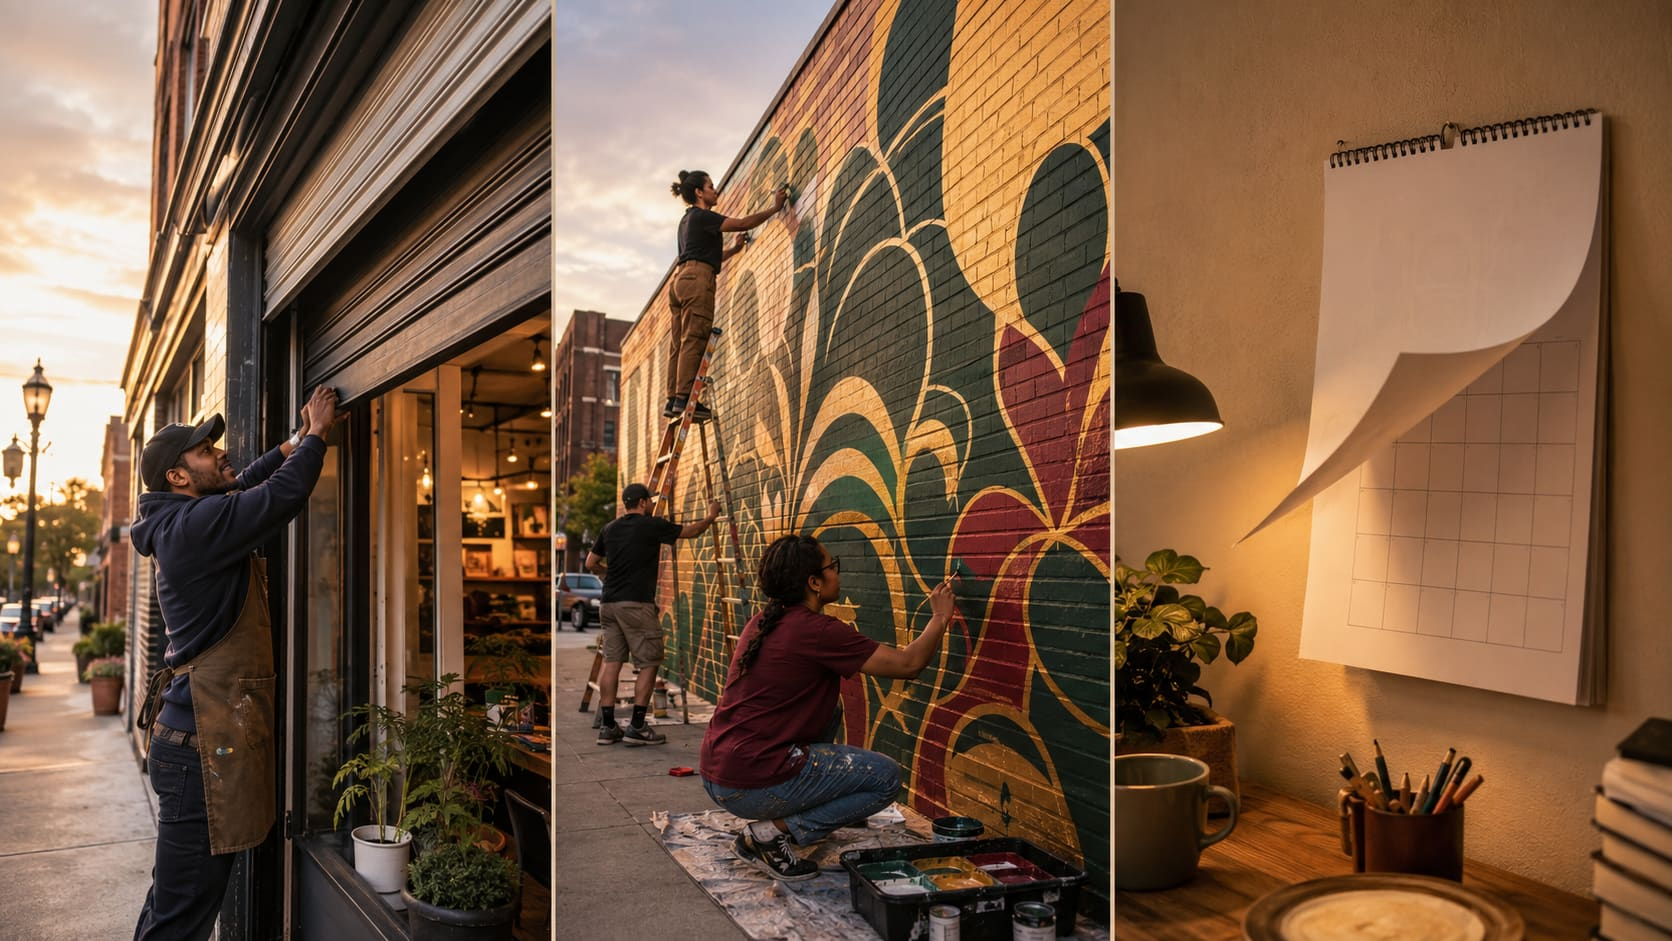
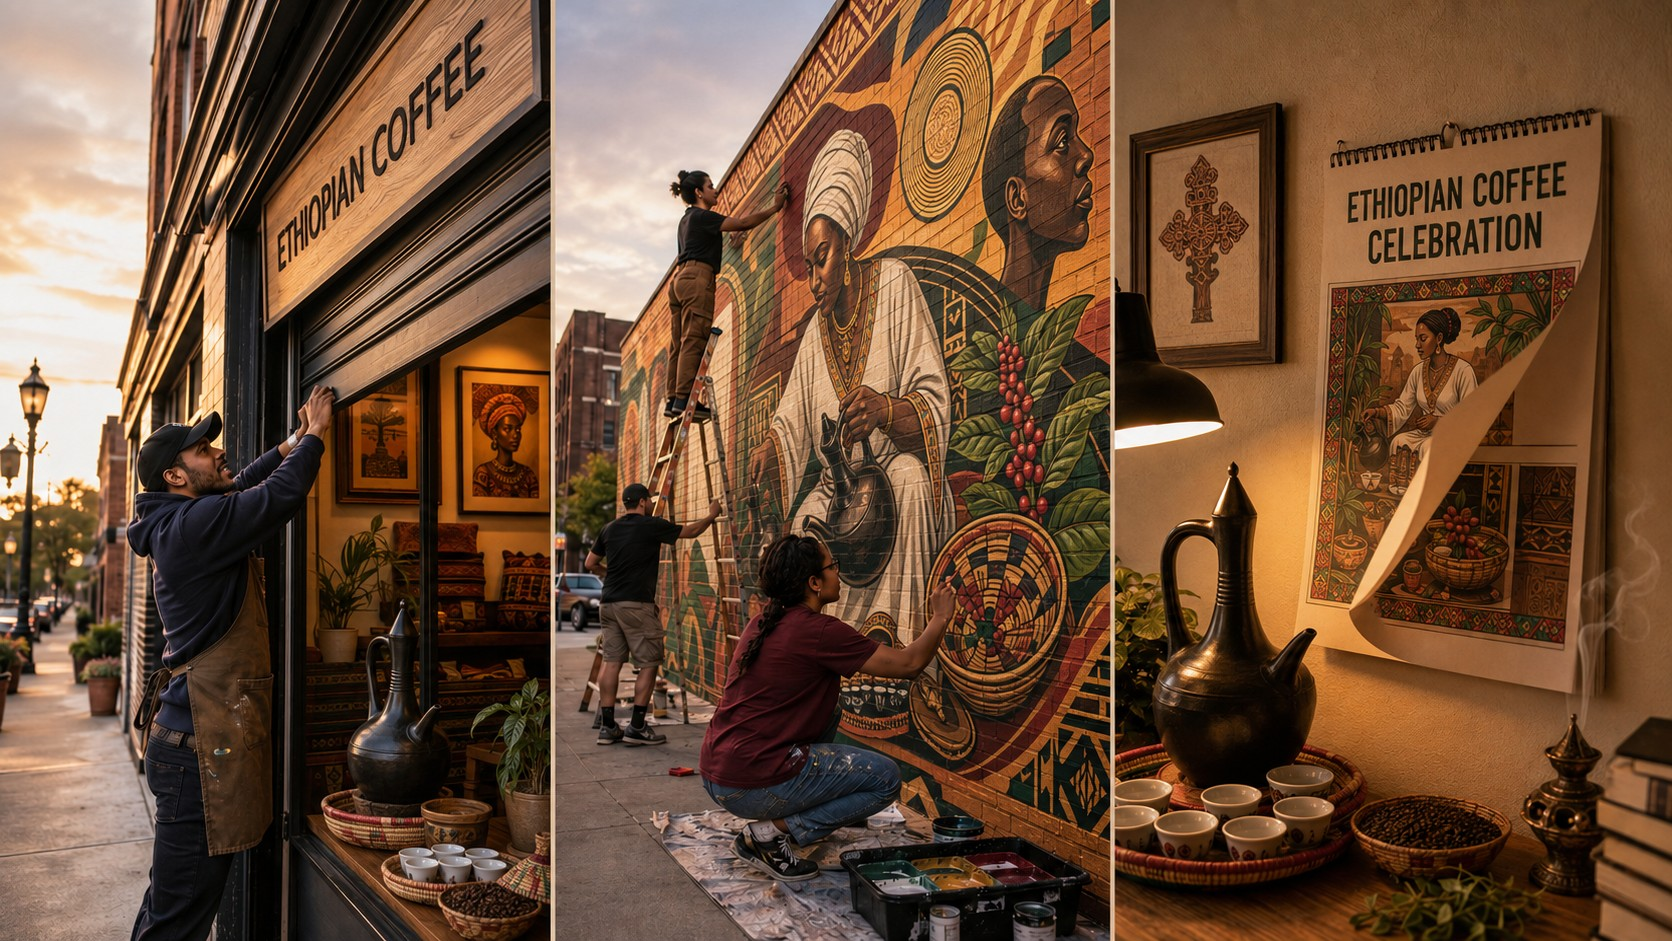
Add Frame 1 image and refresh Frames 9 and 11 artwork
Frame 1 (the 30-year hiatus split) now has its image, closing the one
gap from the last pass. Frames 9 and 11 got updated/regenerated art.

diff --git a/the-legacy/js/frames-data.js b/the-legacy/js/frames-data.js
@@ -1,14 +1,14 @@
 // Content spec: transcribed from Draft_Proposal_Selassie_Fest.docx (Ras Tafari Inc.'s
 // Vision Proposal for restoring Selassie Fest), in the same 27-frame flip-book format
 // as /the-yawd. {{name}} is replaced at render time with the viewer's name/org
-// (frames 1 and 26 only). Frames 2-27 have a real designed `image` (assets/images/) —
-// frame 1 has none yet and falls back to the CSS mood-gradient placeholder in
-// index.html. The `visual` field remains as the original art-direction spec / a11y
-// caption even where a final image already exists.
+// (frames 1 and 26 only). Every frame has a real designed `image` (assets/images/).
+// The `visual` field remains as the original art-direction spec / a11y caption but is
+// no longer rendered once a frame has an `image` (see app.js).
 
 const FRAMES = [
   {
     id: 1,
+    image: 'assets/images/frame-01.jpg',
     batch: 'hook',
     personalize: 'start',
     visual: "Archival-toned photo of a packed festival field at Seven Hills in Washington Park, 1990s film grain, dissolving into the same hillside today — quiet, empty, waiting.",
